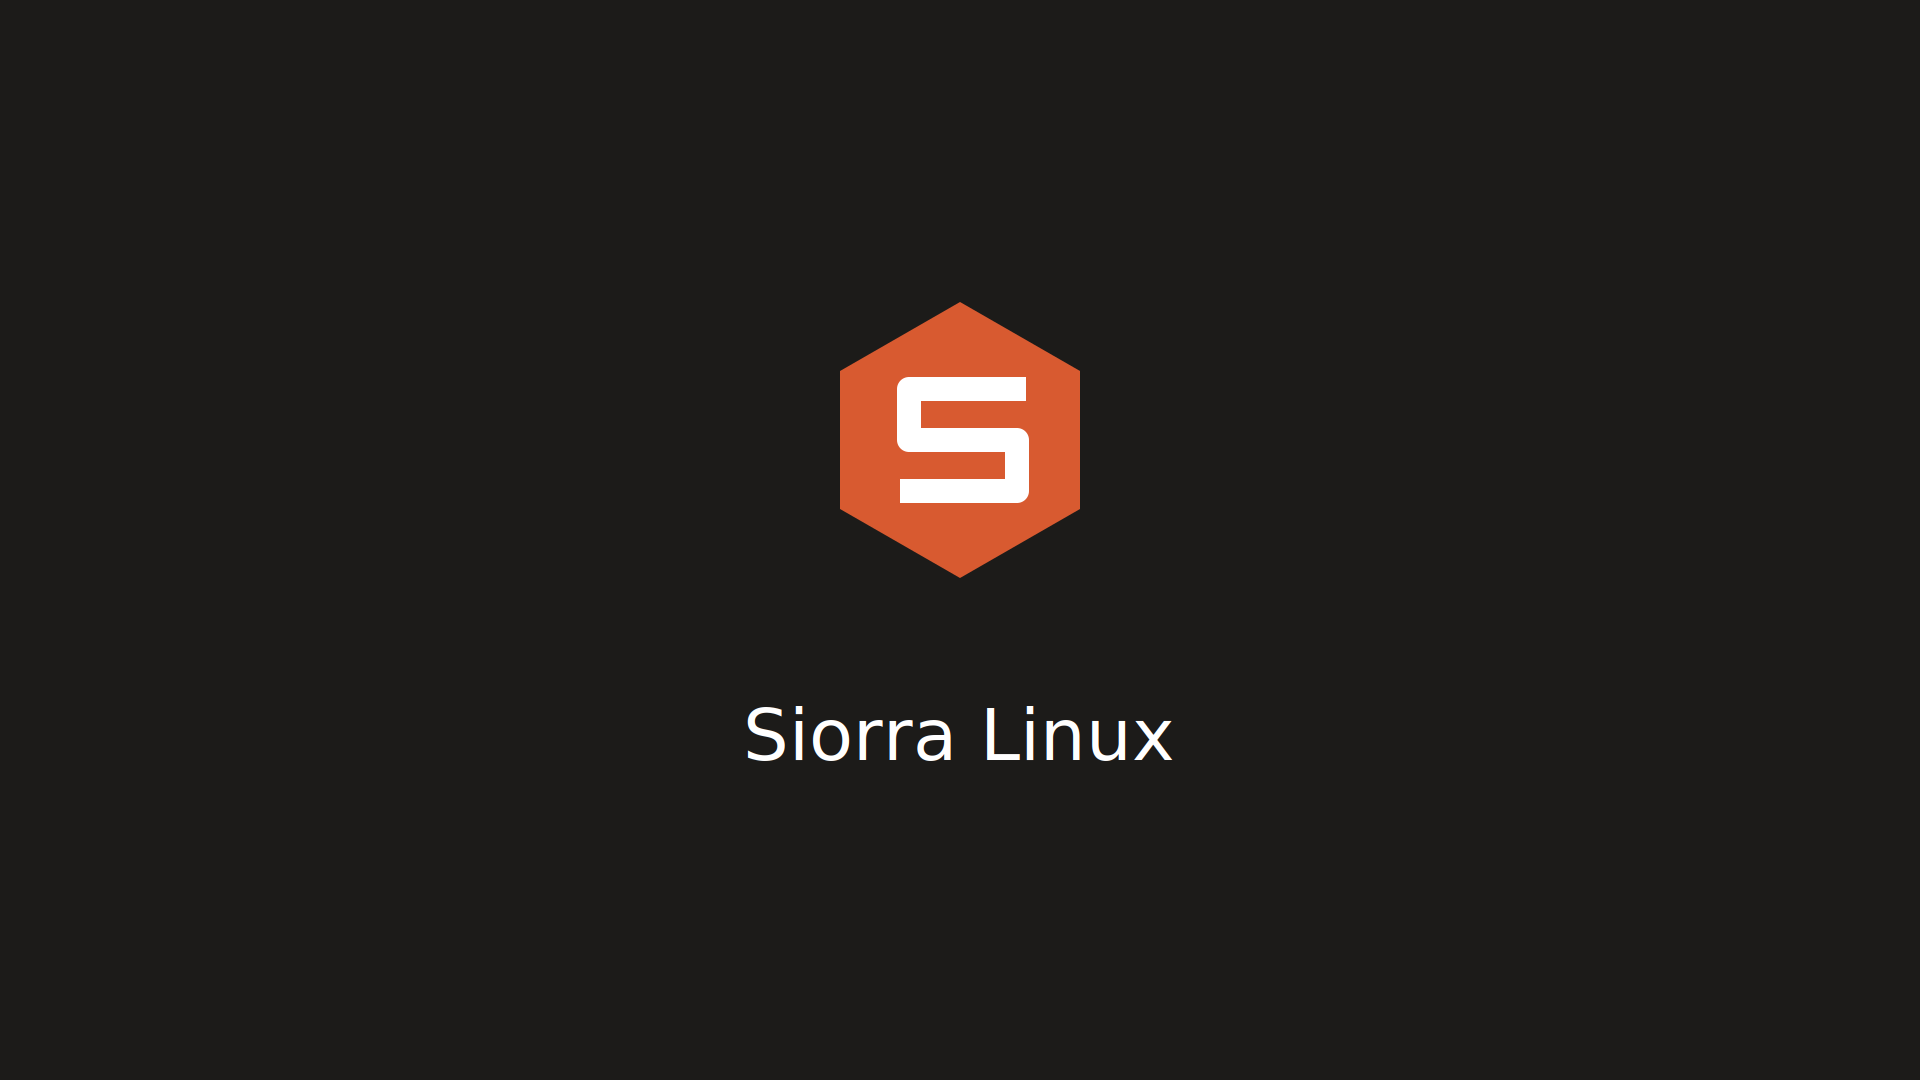
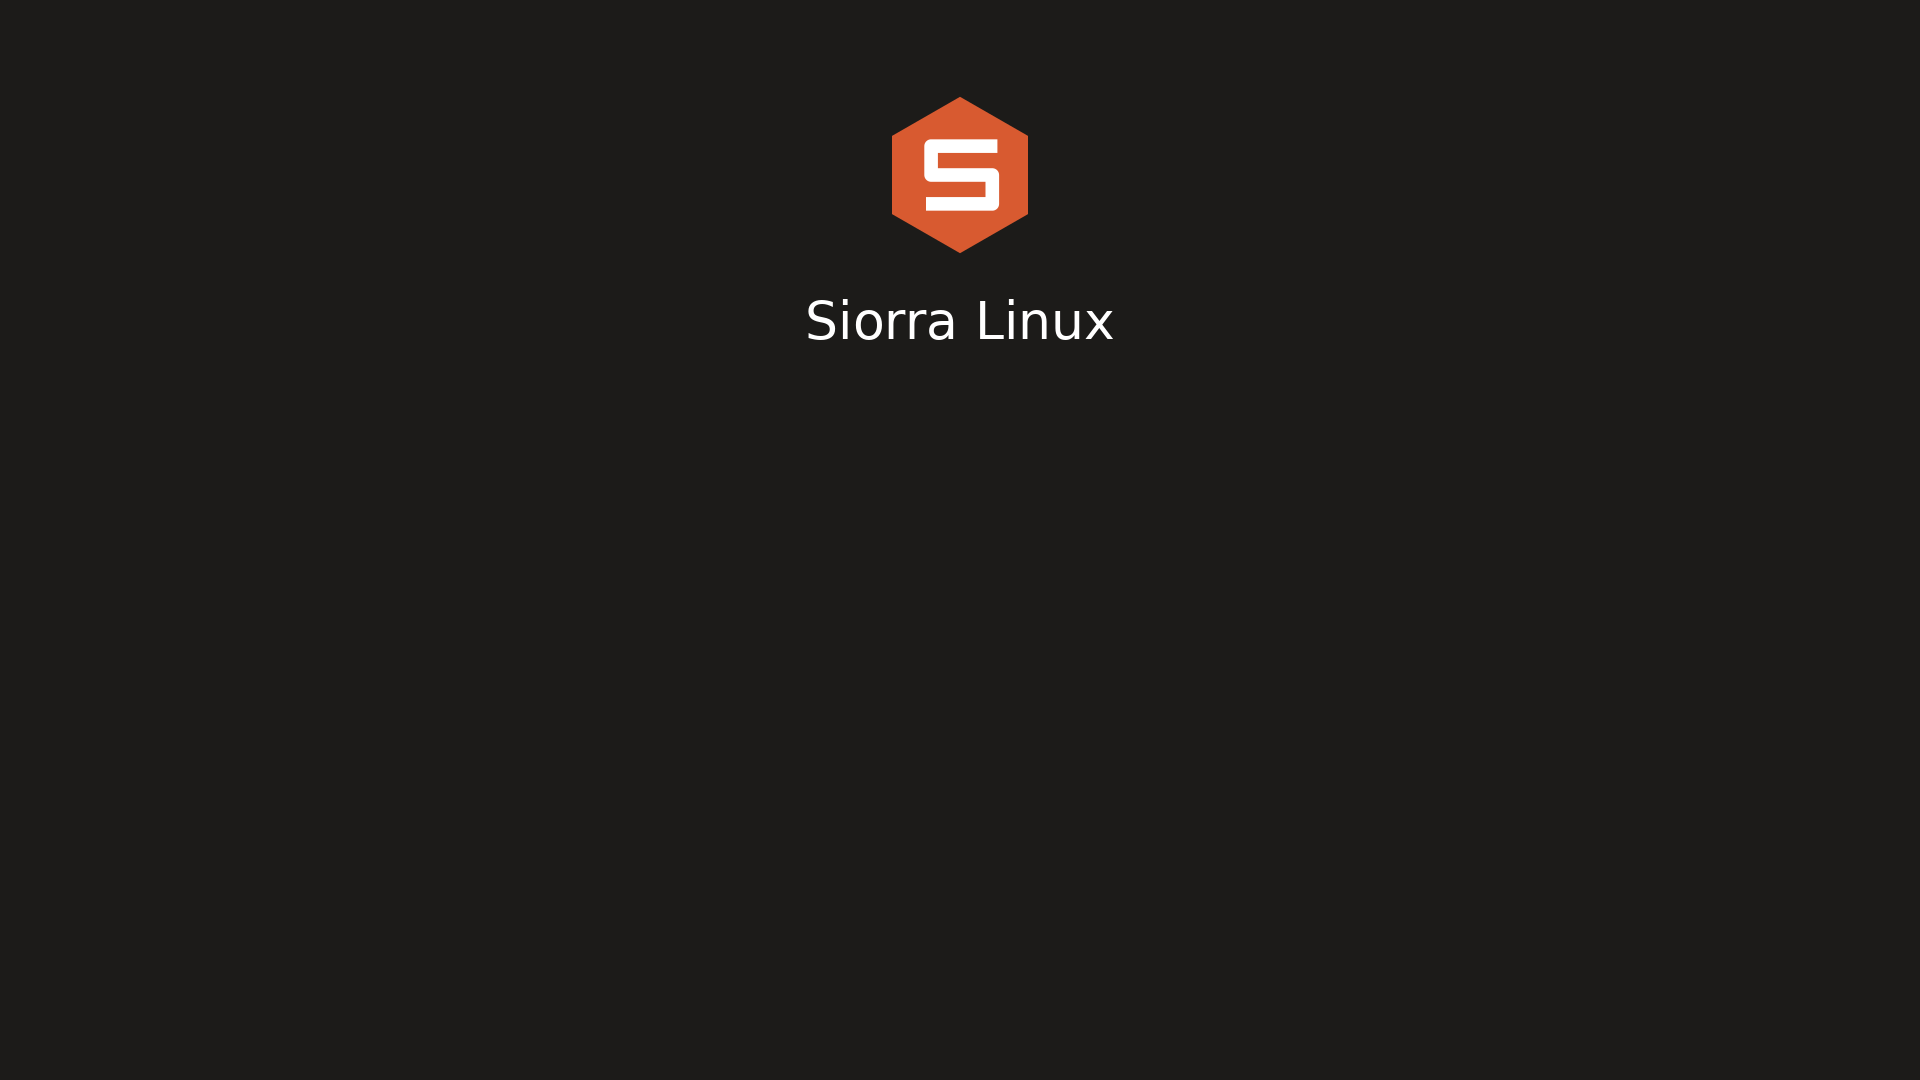
Fix live login (install user-setup, set password, autologin), wallpaper layout, keep lb cache

Changed region(s): [[0.4062, 0.275, 0.5938, 0.55], [0.4375, 0.0917, 0.5625, 0.2444], [0.375, 0.6417, 0.625, 0.7028]]

diff --git a/CLAUDE.md b/CLAUDE.md
@@ -1,0 +1,55 @@
+# Siorra Linux - project handoff
+
+Put this file in the repo root (`CLAUDE.md`) so Claude Code reads it automatically.
+
+## Goal
+Build **Siorra Linux**, a Debian-based distro (Debian 13 "trixie", XFCE, LightDM, Calamares installer), with its own branding. The logo is **option C**: a coral (#D85A30) hexagon with a white blocky "S". The dark background is #1c1b19.
+
+## Repo and environment
+- GitHub (private): `daler-sodikov/siorra-linux`.
+- Local path: `~/Desktop/Siorra/siorra-linux-build`.
+- Host: Arch Linux, zsh, Docker. The owner is Daler, who prefers concise answers and honest disclosure of limitations.
+- Network quirk: the laptop only has internet through the **NetShare** Android app, which is an HTTP proxy at `http://192.168.49.1:8282`. There is no real network interface sharing.
+  - `systemd-resolved` is not running, so `resolvectl` fails.
+  - Docker needs the proxy on its daemon only for `docker pull`.
+  - Inside the container the proxy is passed with `-e http_proxy=... -e https_proxy=...`.
+  - USB tethering would be more reliable.
+
+## Files
+- `build-siorra.sh`: installs live-build in the container, runs `lb config`, writes the package list, os-release branding hook and live-user config, calls `../apply-branding.sh`, then `lb build`.
+- `apply-branding.sh`: run from inside `siorra/` after `lb config`. It adds the logo/icons, wallpaper, LightDM greeter config, XFCE wallpaper XML, Plymouth theme, bootloader splash replacement, Calamares branding and the chroot hook `0200-siorra-theme.hook.chroot`.
+- `brand/`: the logo SVG, PNGs from 16 to 512 px, the 1920x1080 wallpaper and the 640x480 boot splash.
+
+## Build command (from repo root)
+```
+docker run --rm -it --privileged -v "$PWD":/work -w /work \
+  -e http_proxy=http://192.168.49.1:8282 -e https_proxy=http://192.168.49.1:8282 \
+  debian:trixie bash build-siorra.sh
+```
+The ISO appears in `siorra/`. The exact filename has not been confirmed, so check `ls siorra/*.iso`. Test with `qemu-system-x86_64 -m 4G -enable-kvm -vga virtio -cdrom siorra/*.iso`.
+
+## Status
+- The full ISO build **succeeded** and the ISO boots in QEMU.
+- The branded LightDM greeter appears (logo, "Siorra Linux" text, dark background), so greeter/wallpaper branding works.
+- The first build took about 1 hour over the proxy.
+
+## Known issues (fixed in source, need a rebuild to confirm)
+1. **Login.** Root cause: `user-setup` was never installed (`--apt-recommends false`; it is only a Recommends of `live-config`), so live-config never created any user. Fixed by adding `user-setup` (plus `locales`, `keyboard-configuration`, `iproute2`) to the package list. Live user/password is now **`siorra` / `siorra`**, set by a custom live-config component `0031-siorra-live` (runs after user-setup). That component also writes `/etc/lightdm/lightdm.conf.d/50-siorra-autologin.conf` at boot (live session only), because Debian's lightdm.conf has no `#autologin-user=` lines for live-config's own component to uncomment. `config.conf.d/siorra.conf` IS read (via `init-config.sh`). Boot with `noautologin` to get the greeter.
+2. **Wallpaper logo overlap.** Logo and text moved to the top of `brand/siorra-wallpaper.png`; greeter dialog pinned at `position=50%,center 60%,center`.
+3. **Cache.** `lb clean --purge` replaced by `lb clean`.
+4. **Proxy line.** `${http_proxy:+--apt-http-proxy "$http_proxy"}` is in `build-siorra.sh` and committed.
+5. **Password comment** corrected.
+- Open: Calamares has no `removeuser` module, so the installed system keeps the `siorra` user.
+
+## Not yet verified
+- Plymouth boot splash.
+- GRUB/syslinux splash images: live-build bootloader template paths may differ, and the script replaces every `splash.png` it finds.
+- XFCE wallpaper after login: monitor names in the XML are guesses.
+- Calamares branding and the installer itself. Calamares uses a minimal logo-only slideshow.
+- Whether `os-release` and `/etc/issue` branding applies in the running system.
+
+## Suggested next steps
+1. Fix issues 1 to 5 and rebuild.
+2. Boot, log in, and verify each unverified item above.
+3. Add a README and a GitHub Actions workflow to build the ISO.
+4. Later: a Siorra GTK/icon theme, a custom apt repo, and real project URLs (the ones in `os-release` and Calamares are placeholders: `example.com/siorra`). The version codename "Aurora" is a placeholder too.
